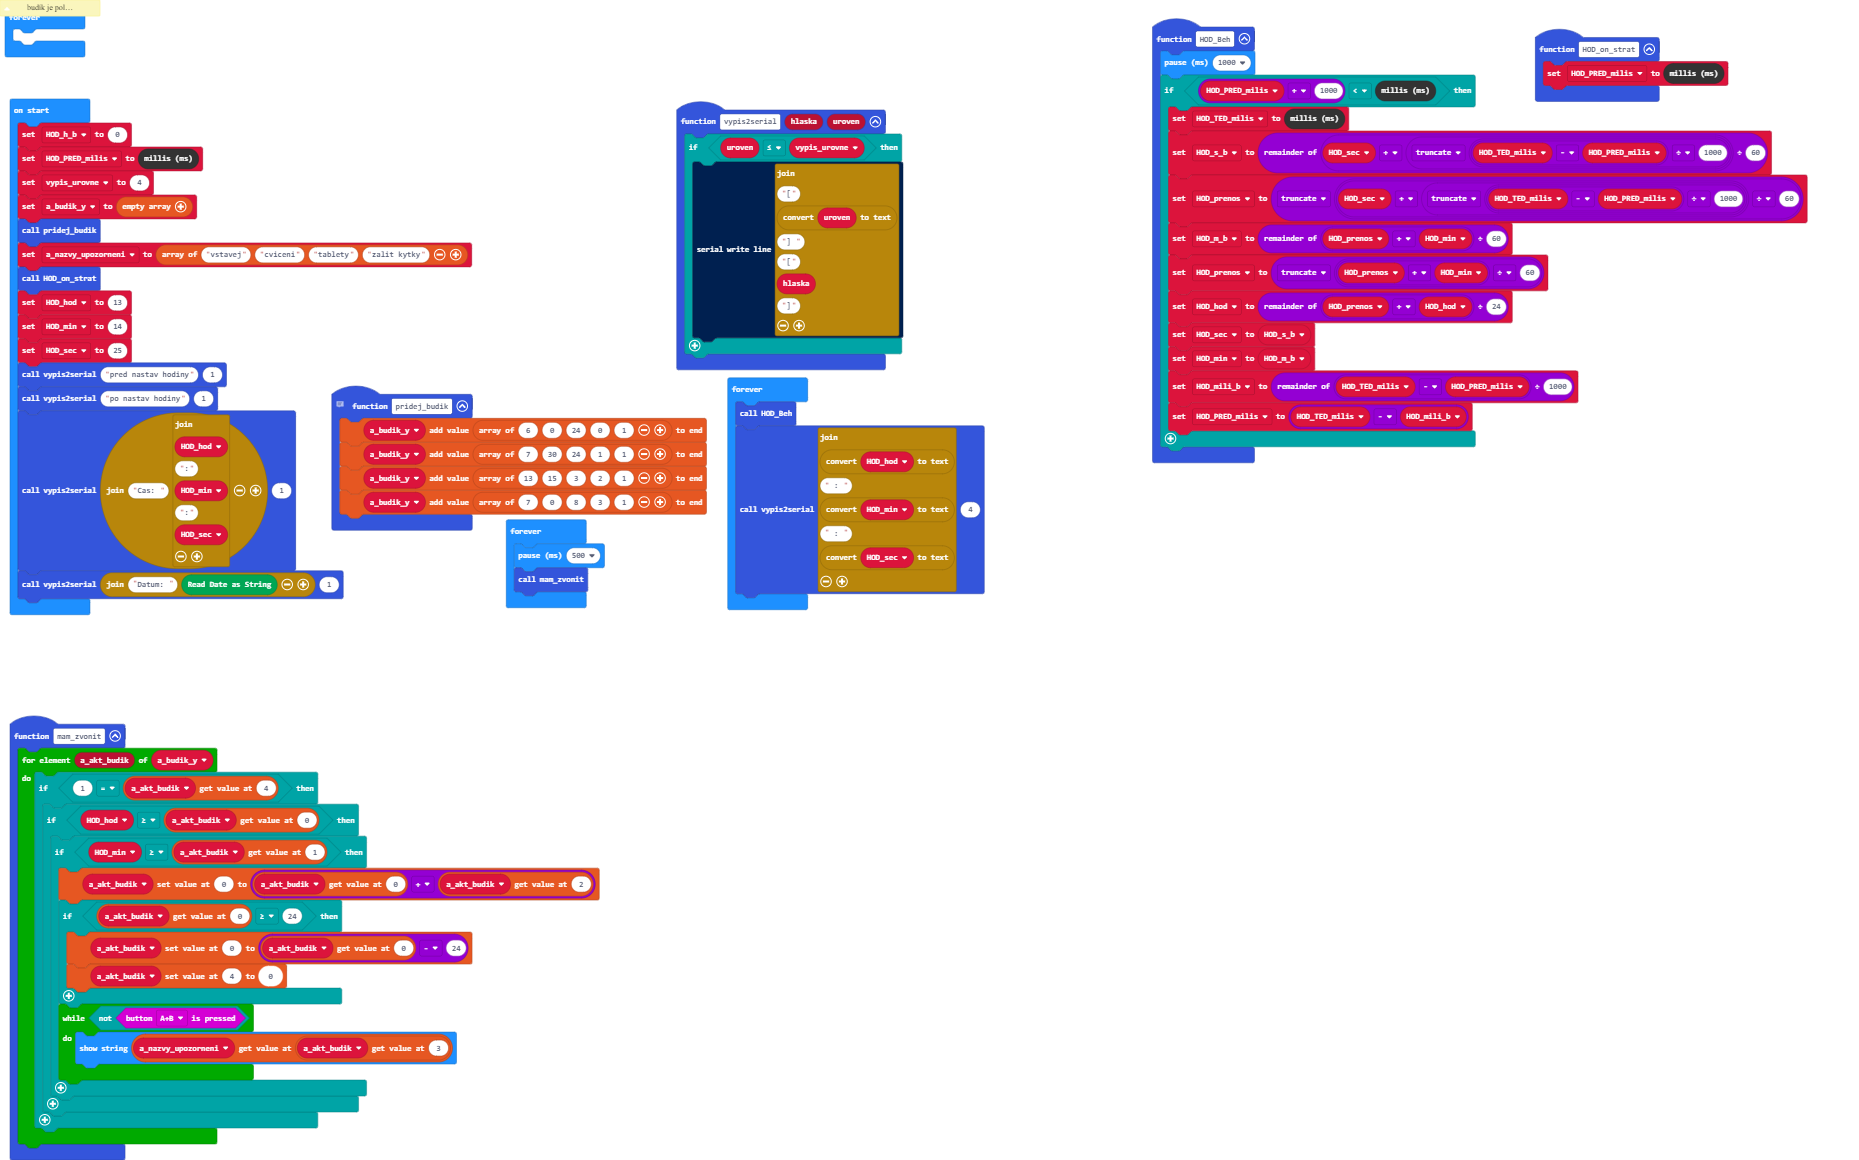
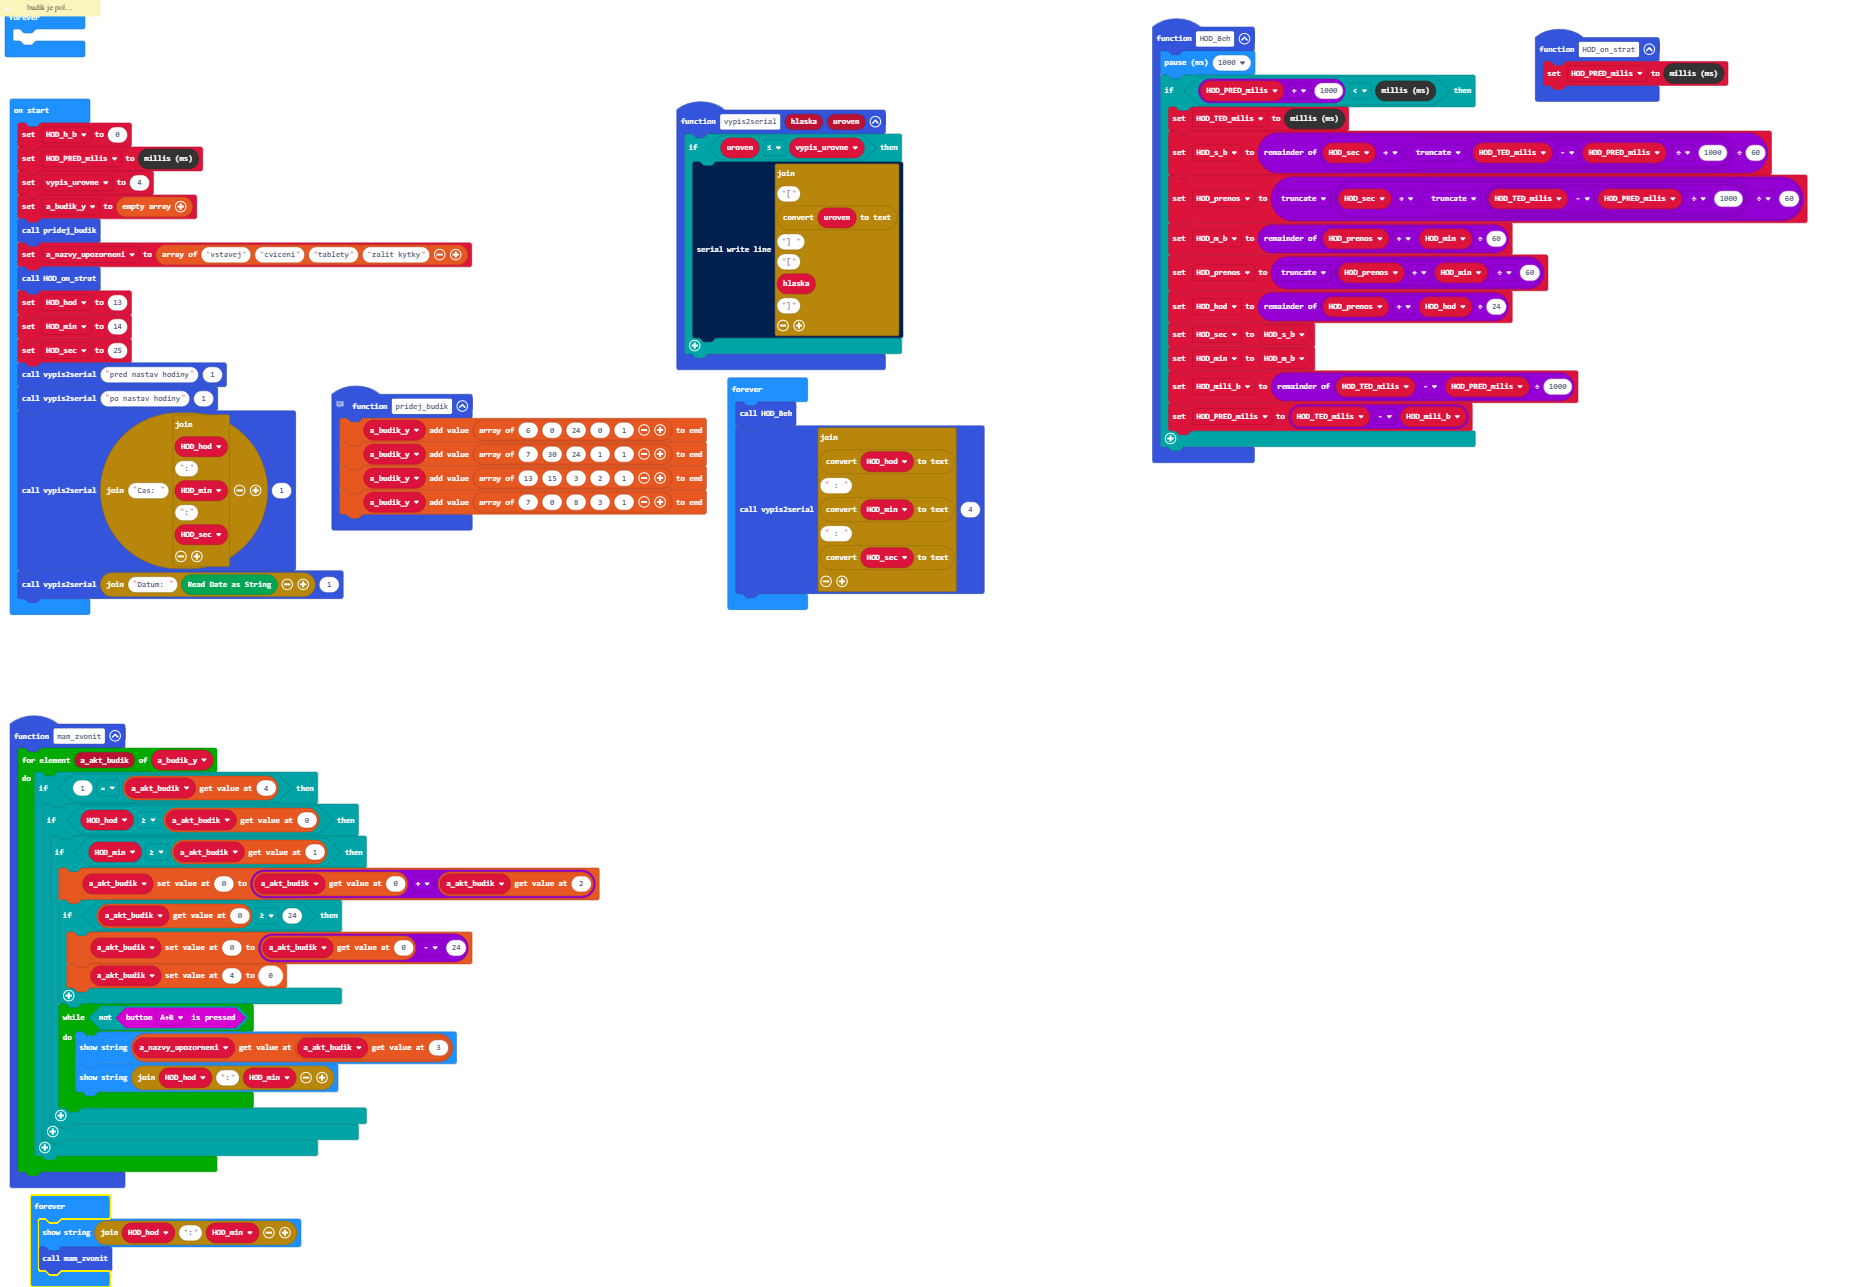
Update main.blocks, main.ts

Changed region(s): [[0.0, 0.0, 0.5304, 1.0], [0.5928, 0.0, 0.9984, 0.4034]]

diff --git a/main.ts b/main.ts
@@ -35,6 +35,7 @@ function mam_zvonit () {
                     }
                     while (!(input.buttonIsPressed(Button.AB))) {
                         basic.showString("" + (a_nazvy_upozorneni[a_akt_budik[3]]))
+                        basic.showString("" + HOD_hod + ":" + HOD_min)
                     }
                 }
             }
@@ -91,6 +92,6 @@ basic.forever(function () {
     vypis2serial("" + convertToText(HOD_hod) + " : " + convertToText(HOD_min) + " : " + convertToText(HOD_sec), 4)
 })
 basic.forever(function () {
-    basic.pause(500)
+    basic.showString("" + HOD_hod + ":" + HOD_min)
     mam_zvonit()
 })
